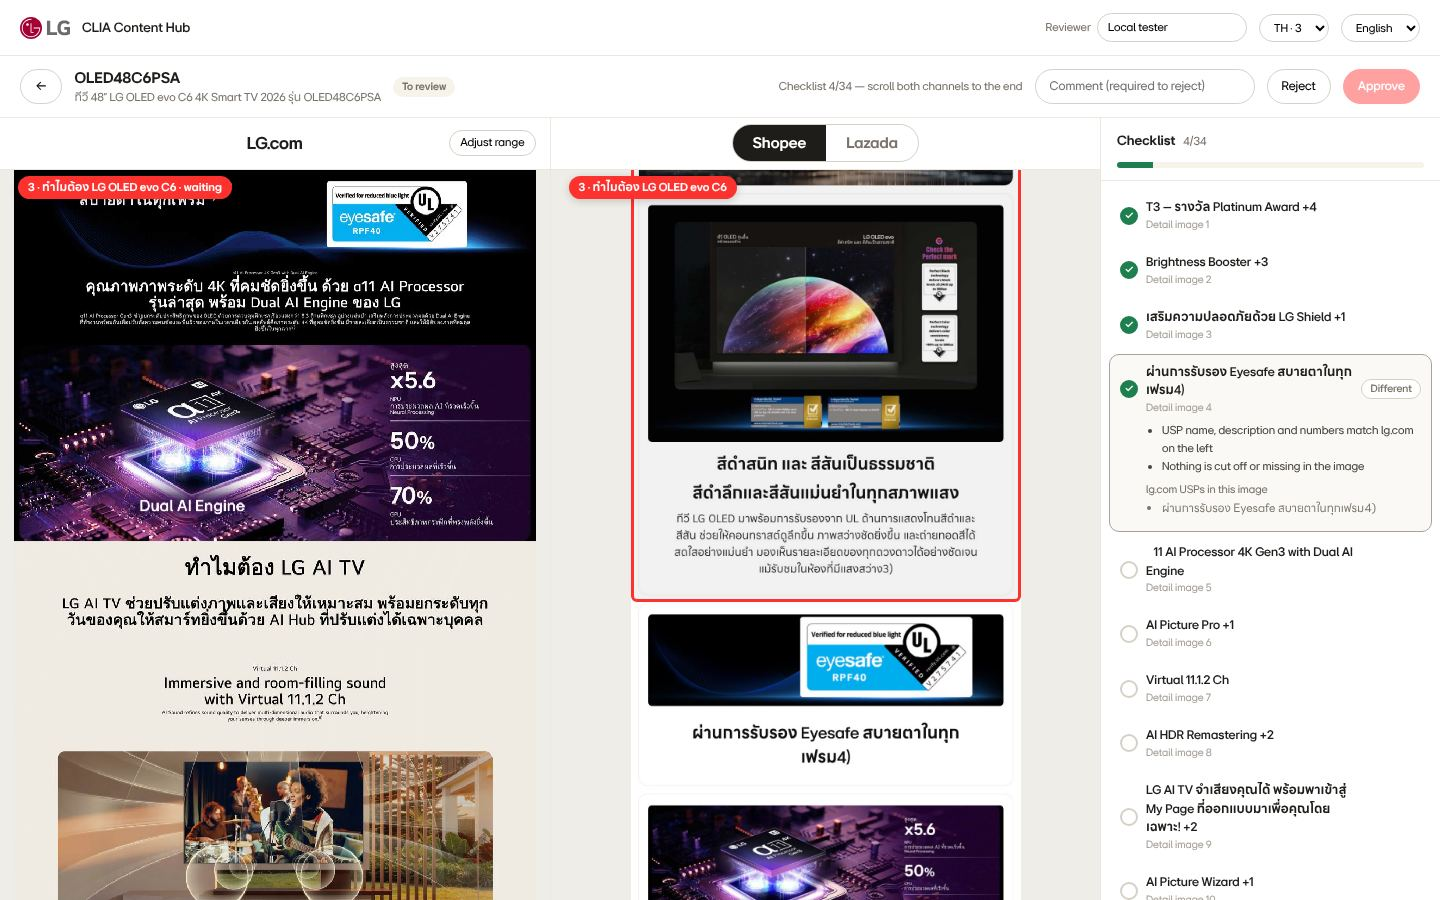
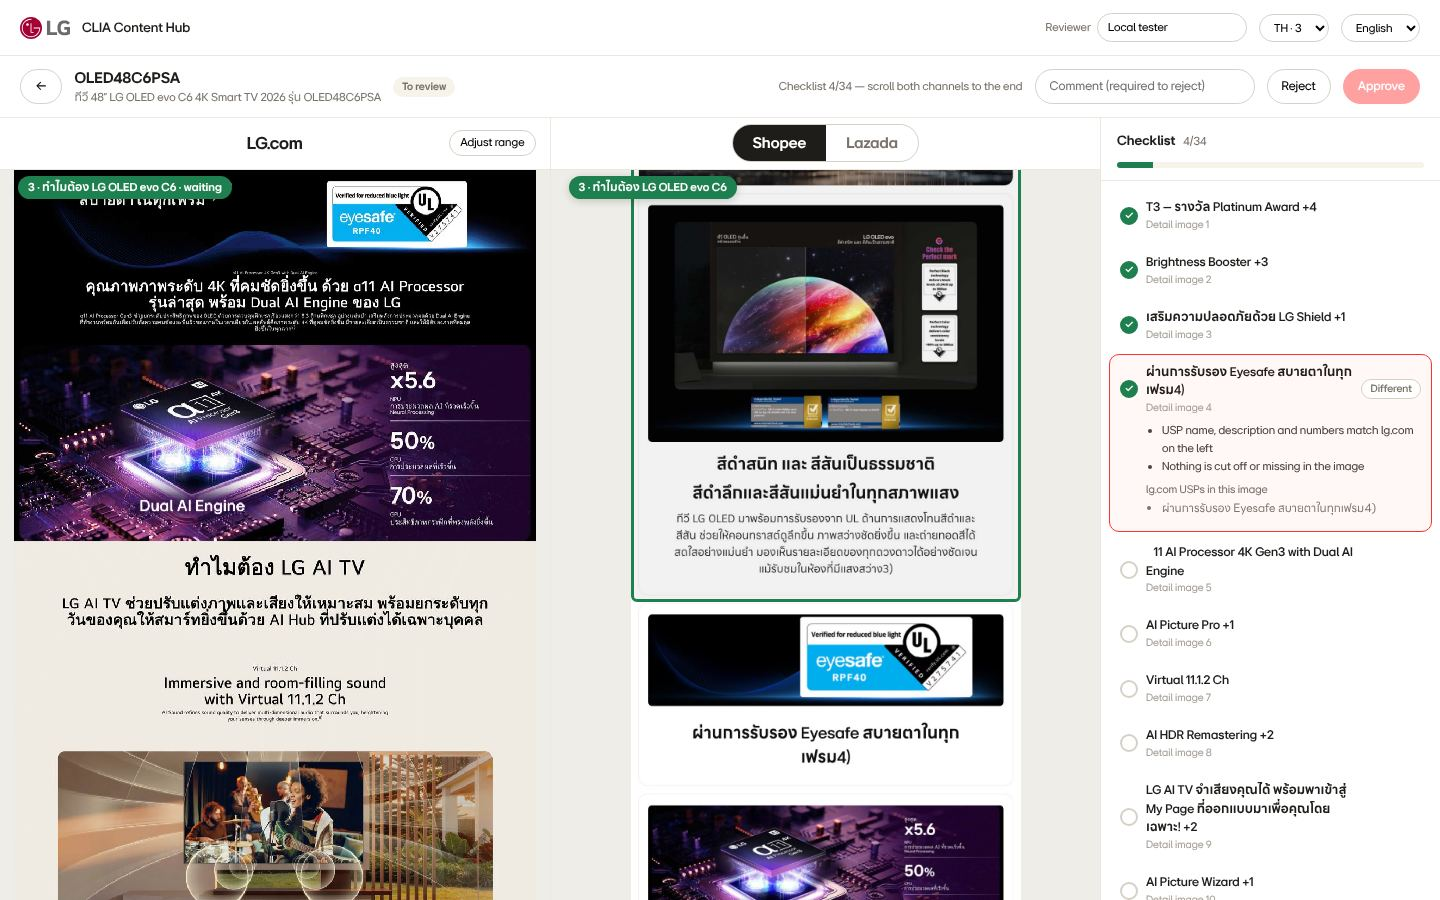
검토 화면: 같은 영역 하이라이트는 초록, 체크리스트 지금 항목은 빨강
Claude-Session: https://claude.ai/code/session_01Qc8KZ9fFX6kBVHrq9Tv6ME

Changed region(s): [[0.4375, 0.1867, 0.7188, 0.6844], [0.0, 0.1867, 0.1875, 0.2489], [0.375, 0.1867, 0.5312, 0.2489]]

diff --git a/review/index.html b/review/index.html
@@ -114,7 +114,7 @@ aside{display:flex;flex-direction:column;min-height:0;background:#fff;border-lef
 .ckh .prog{width:100%;height:6px;margin:8px 0 0}
 .ckl{flex:1;overflow:auto;padding:6px 8px 40px}
 .it{border-radius:10px;padding:8px 10px;margin:2px 0;cursor:pointer;border:1px solid transparent}
-.it:hover{background:var(--g50)}.it.cur{border-color:var(--g400);background:var(--g50)}
+.it:hover{background:var(--g50)}.it.cur{border-color:var(--red);background:#FFF8F7}
 .it .t{display:flex;gap:8px;align-items:center;font-size:13px;font-weight:600}
 .it .ic{flex:none;width:18px;height:18px;border-radius:50%;border:2px solid var(--g300);display:inline-flex;align-items:center;justify-content:center;font-size:11px;color:#fff}
 .it.seen .ic{background:var(--ok);border-color:var(--ok)}.it.seen .ic::after{content:'✓'}
@@ -497,7 +497,7 @@ async function recapture(){CROP=null;$('cropEd').hidden=true;toast(t('recapToast
 //   [PDP 요약(오른쪽에만)] → [PDP 시작 ↔ 첫 상세 이미지] → 섹션 기준점마다 … → [양쪽 끝]
 // 한 구간 안에서는 두 쪽이 같은 속도(화면 px)로 같이 움직이고, 그 구간이 짧은 쪽은 구간 끝에서 긴 쪽이 끝날 때까지 기다린다.
 // 다음 구간은 두 쪽이 같은 자리(구간 시작)에서 같이 출발한다 → 같은 영역이 늘 같은 높이에 온다.
-const SEG_COLOR='#FD312E';   // 같은 영역 표시는 LG 레드 한 가지 (구간은 번호 · 이름표로 구분)
+const SEG_COLOR='#1E7F4F';   // 같은 영역 표시는 초록 한 가지 (구간은 번호 · 이름표로 구분). 빨강은 체크리스트 지금 항목
 function layout(){
   const sc=$('sc'),st=$('stage');st.style.height=sc.clientHeight+'px';
   const d=C.d[C.ch],f=shotOf(),vpL=$('vpL'),vpR=$('vpR'),mvL=$('mvL'),mvR=$('mvR'),mk=mvR.querySelector('.mk'),crop=mvL.querySelector('.crop');

diff --git a/docs/clia-pdp-review/production/README.md b/docs/clia-pdp-review/production/README.md
@@ -52,7 +52,7 @@
 - **구간:** PDP 요약(오른쪽에만) → PDP 시작 ↔ 첫 상세 이미지 → 섹션 기준점마다 → 양쪽 끝.
 - **스크롤:** 한 구간 안에서는 두 쪽이 같은 속도로 같이 움직이고, 그 구간이 짧은 쪽은 구간 끝에서 「기다리는 중」으로 멈춥니다. 다음 구간은 두 쪽이 같은 자리에서 같이 출발합니다.
 - **자석:** 구간 시작마다 스냅 점(`scroll-snap-type: y proximity`)이 있어, 그 근처에서 스크롤을 놓으면 두 쪽의 같은 영역이 맨 위에 맞게 붙습니다. 긴 구간 한가운데서는 붙지 않습니다.
-- **표시:** 지금 구간을 양쪽에 LG 레드 테두리와 같은 이름표(번호 · 섹션 제목)로 보여 줍니다. 체크리스트의 지금 항목은 회색 테두리라 헷갈리지 않습니다. 한쪽에 없는 구간(예: PDP 요약)은 「LG.com에 없음 · 기다리는 중」으로 나옵니다.
+- **표시:** 지금 구간을 양쪽에 초록 테두리와 같은 이름표(번호 · 섹션 제목)로 보여 줍니다. 체크리스트의 지금 항목은 빨강 테두리입니다. 한쪽에 없는 구간(예: PDP 요약)은 「LG.com에 없음 · 기다리는 중」으로 나옵니다.
 - **못 찾는 섹션:** lg.com에서 동영상으로 나오는 섹션은 캡처의 장면이 마켓 이미지와 달라서 기준점을 만들지 않고 앞 구간에 합칩니다. 틀린 자리에 맞추는 것보다 낫다고 봤습니다.
 - **확인 (TH 3개, 기준점마다 양쪽을 잘라 눈으로 봄):**
   - GC-X257CMEW: 11/11이 같은 영역
